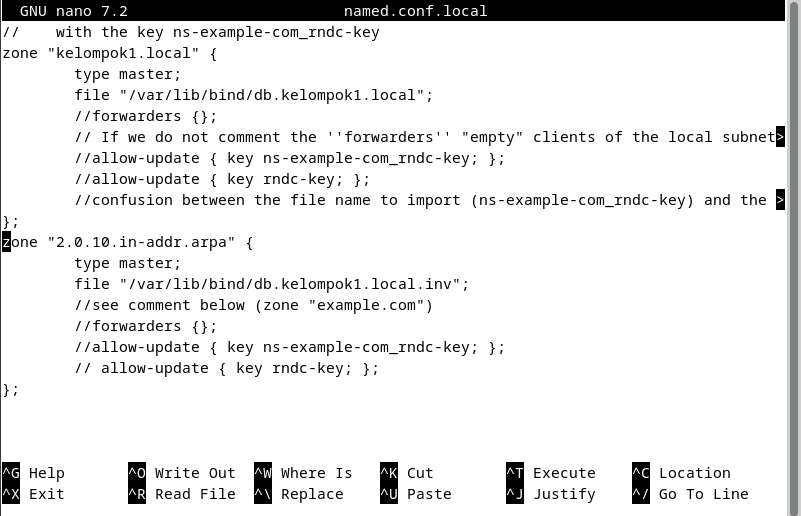
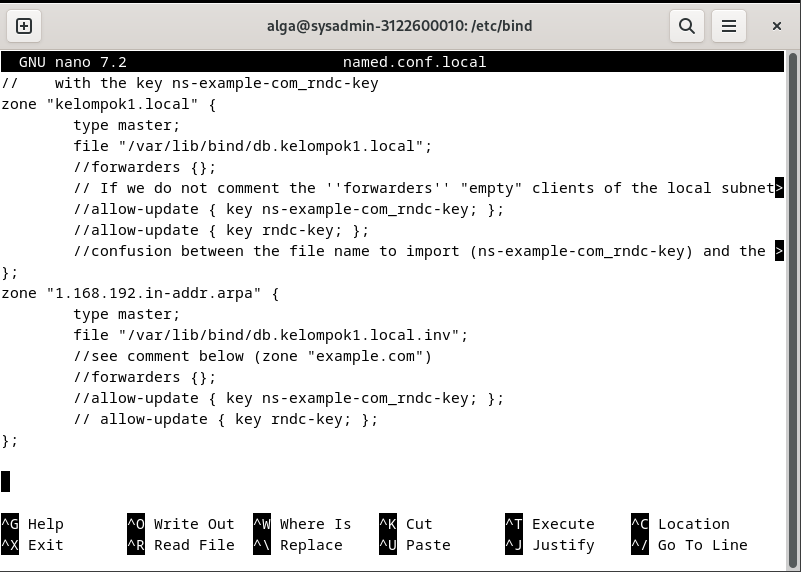
fix: update ip to bridged adapter

diff --git a/week-5/readme.md b/week-5/readme.md
@@ -19,15 +19,17 @@
 
 ![](assets/3.png)
 
-4. Buka konfigurasi di named.conf-default-zones dan sesuaikan konfigurasi seperti di gambar.
+4. Buka konfigurasi di named.conf.default-zones dan sesuaikan konfigurasi seperti di gambar.
 
 ![](assets/4.png)
 
-5. Buka konfigurasi di named-conf.options dan sesuaikan konfigurasi seperti di gambar. Di listen-on, sesuaikan dengan kelompok masing-masing.
+5. Buka konfigurasi di named.conf.options dan sesuaikan konfigurasi seperti di gambar. Di listen-on, sesuaikan dengan kelompok masing-masing.
 
 ![](assets/5.png)
 
-6. Buka konfigurasi di named-conf.local dan sesuaikan zone dengan kelompok masing-masing.
+![](assets/5_2.png)
+
+6. Buka konfigurasi di named.conf.local dan sesuaikan zone dengan kelompok masing-masing.
 
 ![](assets/6.png)
 
